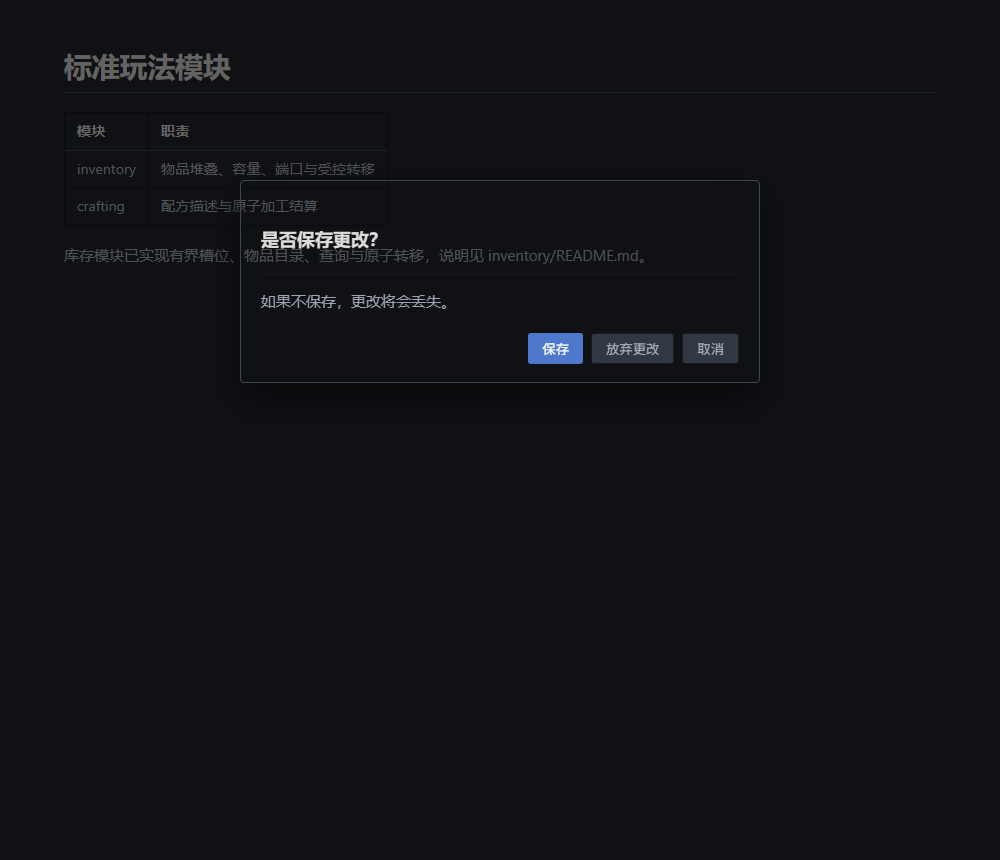
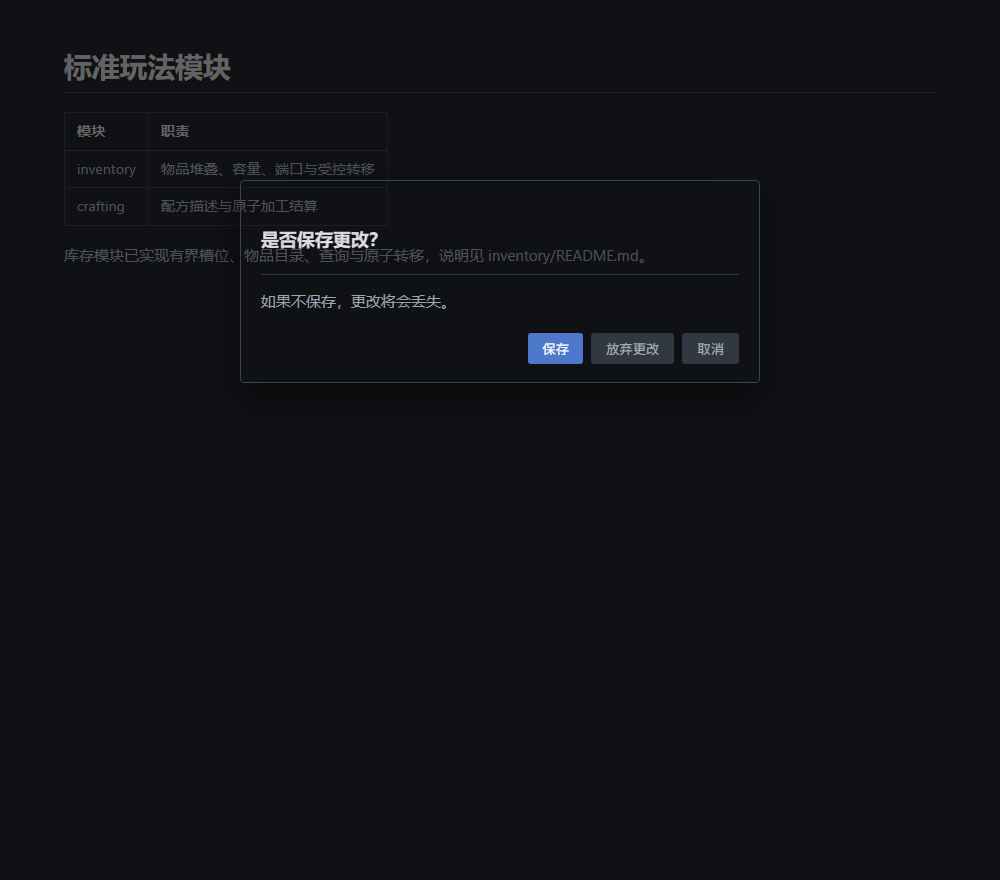
fix(typora): replace the near-black secondary line with a surface grey

diff --git a/typora/onedark-pro-darker.css b/typora/onedark-pro-darker.css
@@ -12,7 +12,9 @@
     --bg-inactive: #323842;
     --bg-quote: #2e3440;
     --line: #3e4452;
-    --line-soft: #181a1f;
+    /* Two line weights only. The palette line-soft (#181a1f) reads as black on
+       this background, so the lighter separator steps up one surface tone. */
+    --line-soft: #323842;
     --fg: #abb2bf;
     --fg-strong: #dcdcdc;
     --fg-ui: #d7dae0;

diff --git a/typora/build/gen.py b/typora/build/gen.py
@@ -27,7 +27,9 @@ TEMPLATE = """/* One Dark Pro Darker for Typora
     --bg-inactive: {bg_inactive};
     --bg-quote: {bg_quote};
     --line: {line_strong};
-    --line-soft: {line_soft};
+    /* Two line weights only. The palette line-soft (#181a1f) reads as black on
+       this background, so the lighter separator steps up one surface tone. */
+    --line-soft: {bg_inactive};
     --fg: {fg};
     --fg-strong: {fg_strong};
     --fg-ui: {fg_ui};

diff --git a/typora/README.md b/typora/README.md
@@ -32,13 +32,16 @@
 | 链接 | `#61afef` | |
 | 行内代码底 | `#2c313c` | 抬高一层的灰 |
 | 围栏代码底 | `#1d1f23` | 比正文区暗，形成内凹 |
-| 分隔线与表格线 | `#3e4452`，表头下沿`#495162` | 不用近黑色，避免方格比内容还抢眼 |
+| 主要分隔线与表格线 | `#3e4452`，表头下沿`#495162` | |
+| 次一级分隔线 | `#323842` | 标题下划、行内代码框、侧栏分界 |
 
 代码高亮的规则挂在`.cm-s-inner`下并带`!important`，Typora自己的默认样式会盖掉声明顺序靠后的规则。源码模式的`.cm-s-typora-default`另有一组映射。
 
 代码高亮用VS Code主题里的语法色：关键字紫`#c678dd`、字符串绿`#98c379`、数字与属性橙`#d19a66`、函数蓝`#61afef`、类型黄`#e5c07b`、变量红`#e06c75`、内建cyan`#56b6c2`、注释灰`#7f848e`。
 
 层级主要靠字号、行高和线宽，颜色只用于区分语义：标题只加亮不加色，链接与光标共用一个强调色。
+
+线只有两级。色板里的`line-soft`是`#181a1f`，那是深色背景上的凹陷，拿来画边框会成一张黑网格，所以次一级线改用`#323842`，与底色`#23272e`差一档，能看见但不抢内容。
 
 ## 三、字体
 
